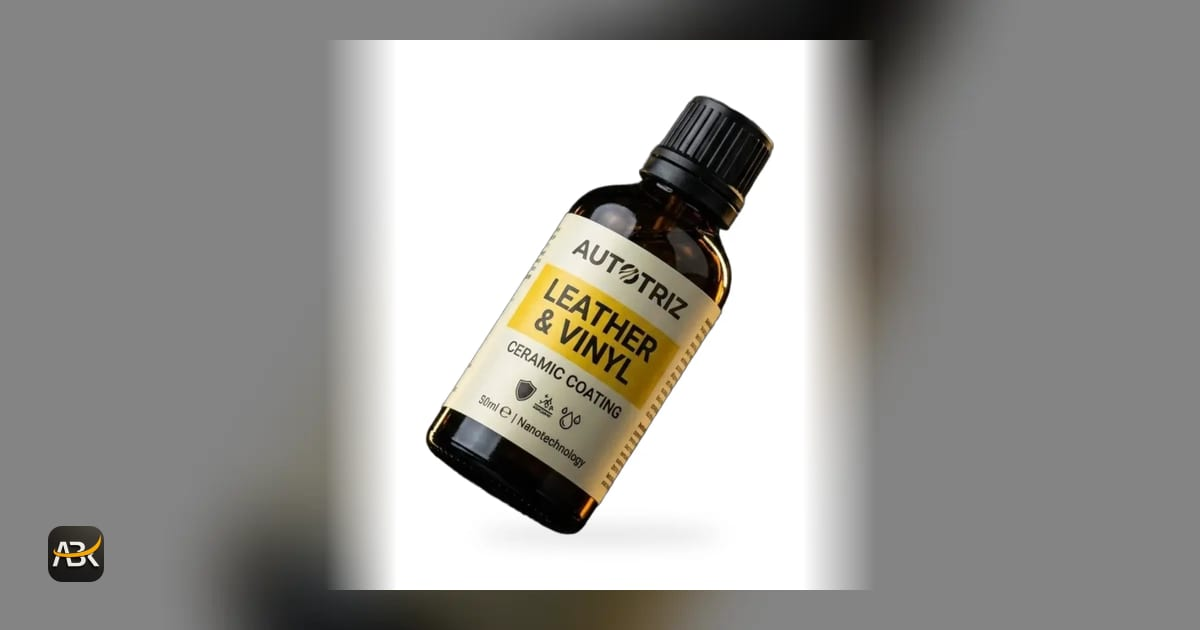
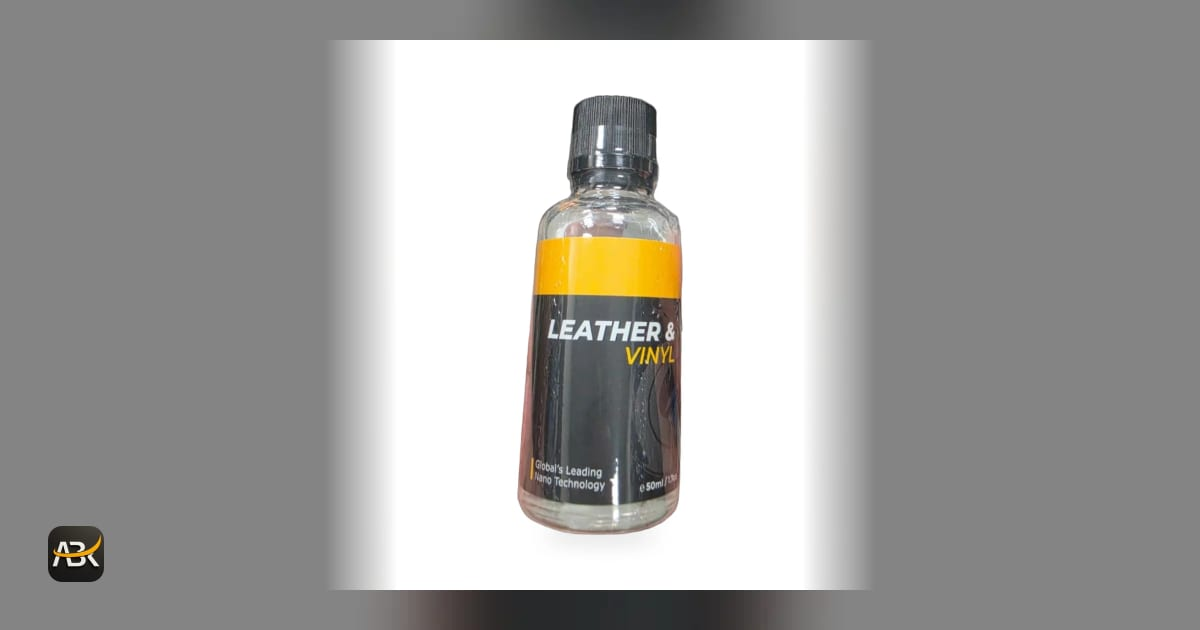
feat(products): replace Autotriz Leather & Vinyl images with real bottle and box packshots

diff --git a/src/data/products.ts b/src/data/products.ts
@@ -775,7 +775,10 @@ export const PRODUCTS: Product[] = [
       en: "Auto-triz Leather & Vinyl is suitable for all types of leather, synthetic leather/vinyl and plastic parts. It leaves a long-lasting barrier to protect the surface against permanent stains from dye of blue jeans, pen or marker. Unlike oil based or water-based leather dressings on the market that only leave a temporary dressing, Autotriz Leather & Vinyl preserves the natural feel of leather with its non-oily and non-slippery finish.",
       ar: "Autotriz Leather & Vinyl مناسب لجميع أنواع الجلد والجلد الصناعي والفينيل والأجزاء البلاستيكية. يترك حاجزاً طويل الأمد لحماية السطح من البقع الدائمة من صبغ الجينز والأقلام والماركر. على عكس ملمعات الجلد الزيتية أو المائية التي تترك طبقة مؤقتة فقط، يحافظ على الملمس الطبيعي للجلد بلمسة غير دهنية وغير زلقة.",
     },
-    images: ["/products/autotriz/autotriz-leather-and-vinyl.webp"],
+    images: [
+      "/products/autotriz/autotriz-leather-and-vinyl.webp",
+      "/products/autotriz/autotriz-leather-and-vinyl-box.webp",
+    ],
     specs: [
       { label: { en: "Size", ar: "الحجم" }, value: { en: "50 ml / 1.7 oz", ar: "٥٠ مل" } },
       { label: { en: "Surfaces", ar: "الأسطح" }, value: { en: "Leather · Synthetic leather · Vinyl · Plastic", ar: "جلد · جلد صناعي · فينيل · بلاستيك" } },
